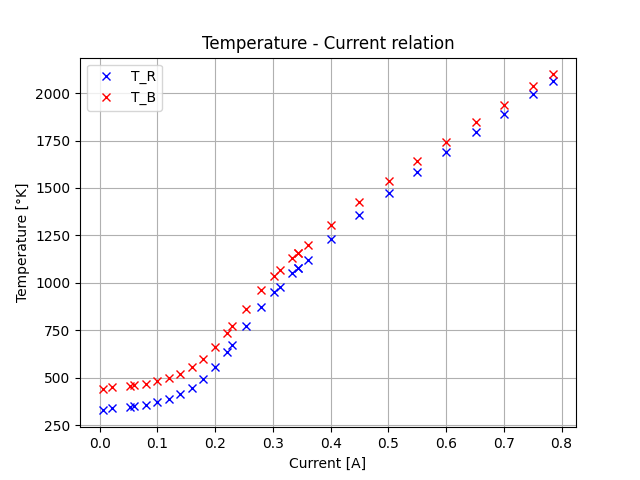
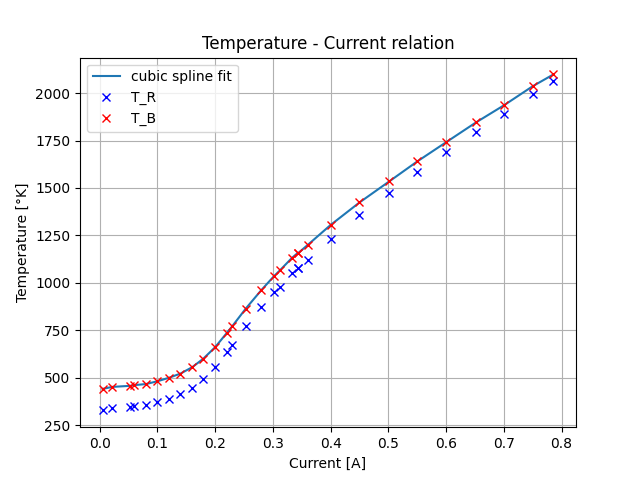
filter_data

diff --git a/calculating_temp_from_resistance.py b/calculating_temp_from_resistance.py
@@ -5,6 +5,7 @@
 import numpy as np
 import matplotlib.pyplot as plt
 import scipy.optimize as opt
+from scipy.interpolate import CubicSpline
 # import scienceplots
 # plt.style.use('science')
 
@@ -102,6 +103,9 @@ def cal_temp_B_from_temp_R(temp_R):
 
 
 # plotting temperatures against current  
+print(taken_data[:, 4])
+cs = CubicSpline(taken_data[:, 4], cal_temp_B_from_temp_R(measured_temp_R))
+plt.plot(taken_data[:, 4], cs(taken_data[:, 4]), label='cubic spline fit')
 plt.plot(taken_data[:, 4], measured_temp_R, 'x', color='blue', label='T_R')
 plt.plot(taken_data[:, 4], cal_temp_B_from_temp_R(measured_temp_R), 'x', color='red', label='T_B')
 plt.xlabel('Current [A]')
@@ -112,6 +116,7 @@ plt.legend()
 # plt.show()
 plt.savefig('graphs\\temp_current_relation.png')
 plt.close()
+
 
 
 #will was here
